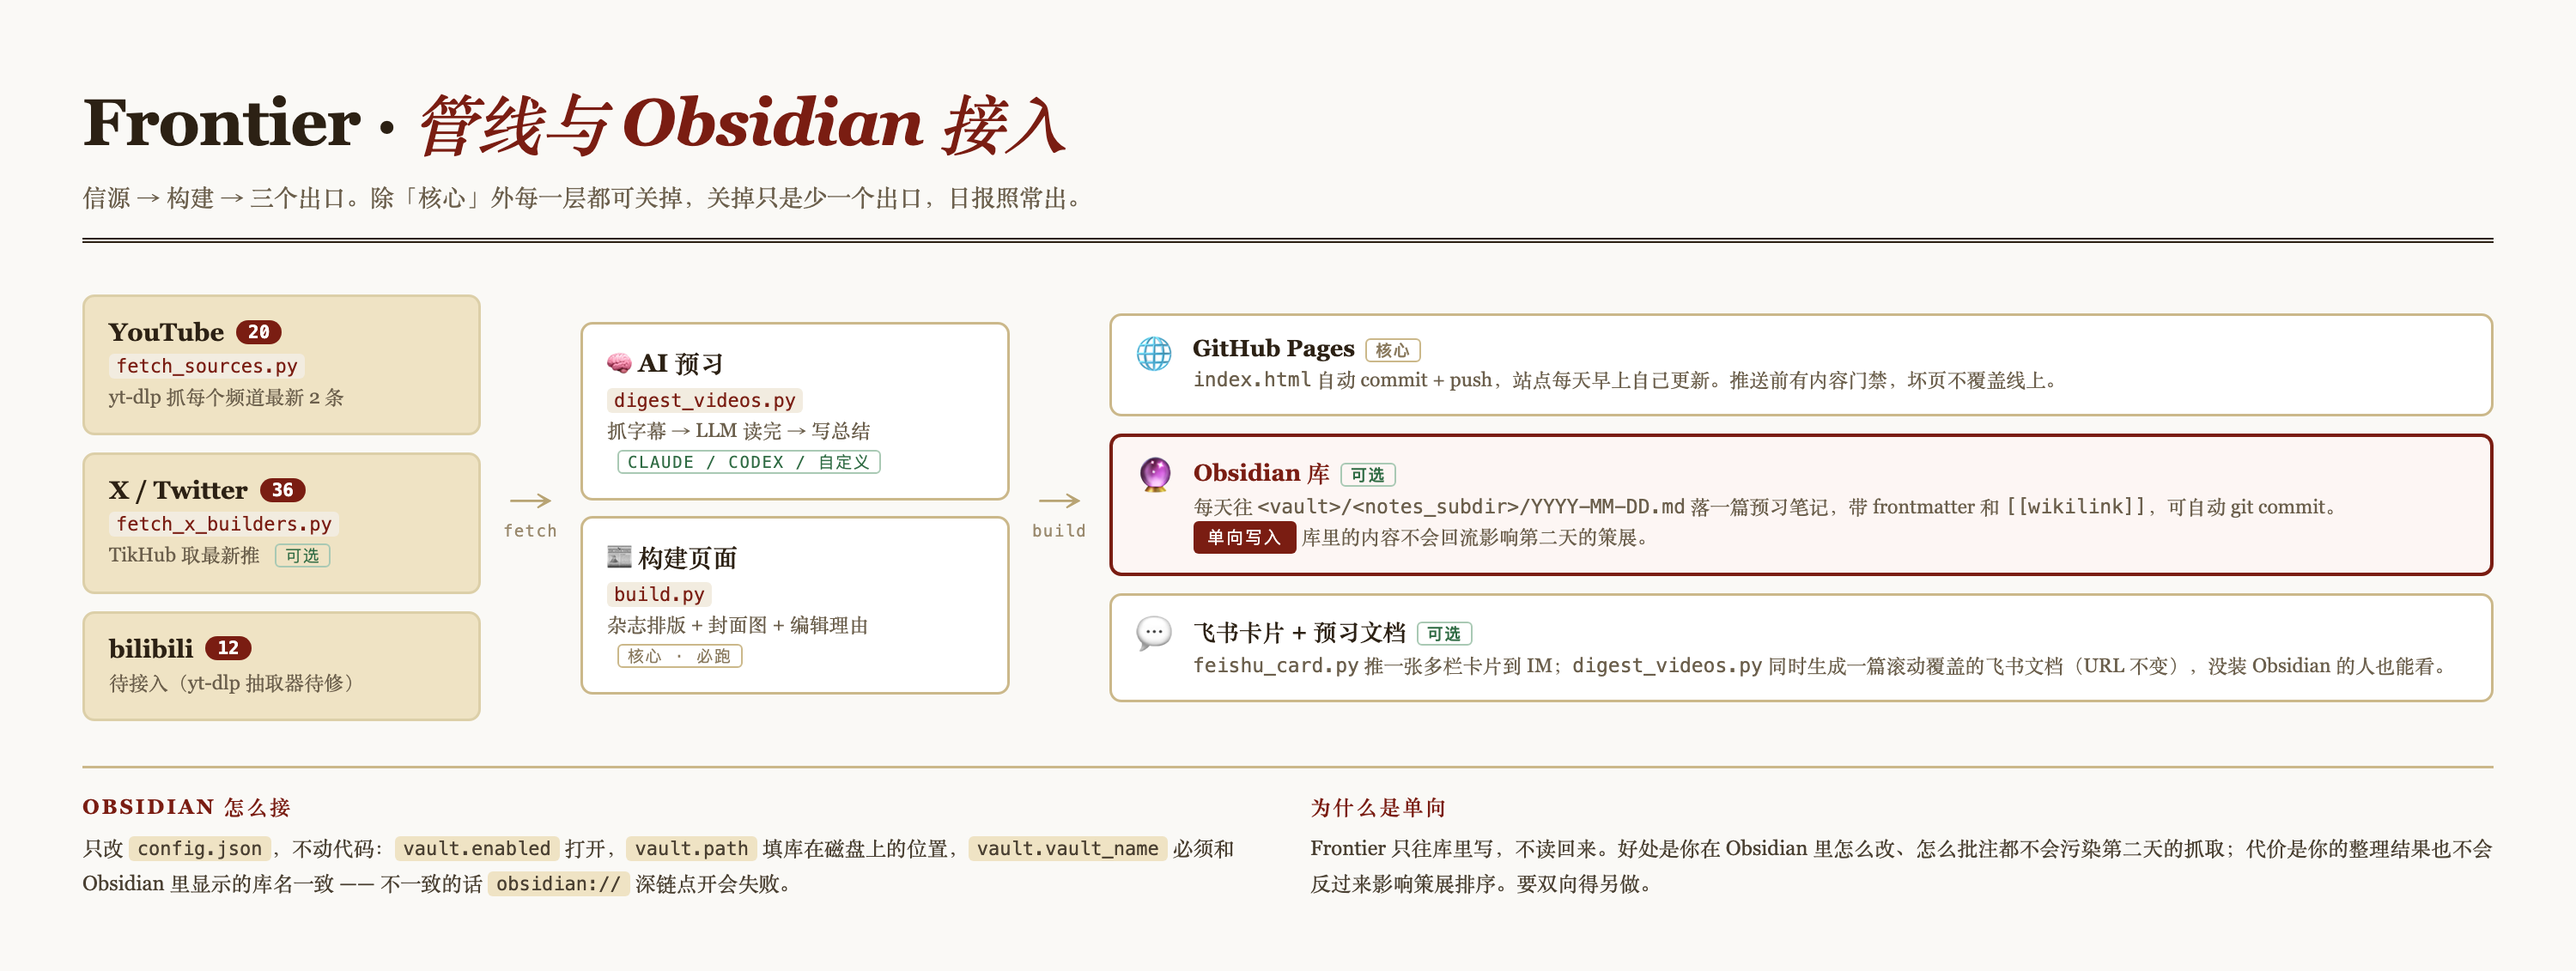
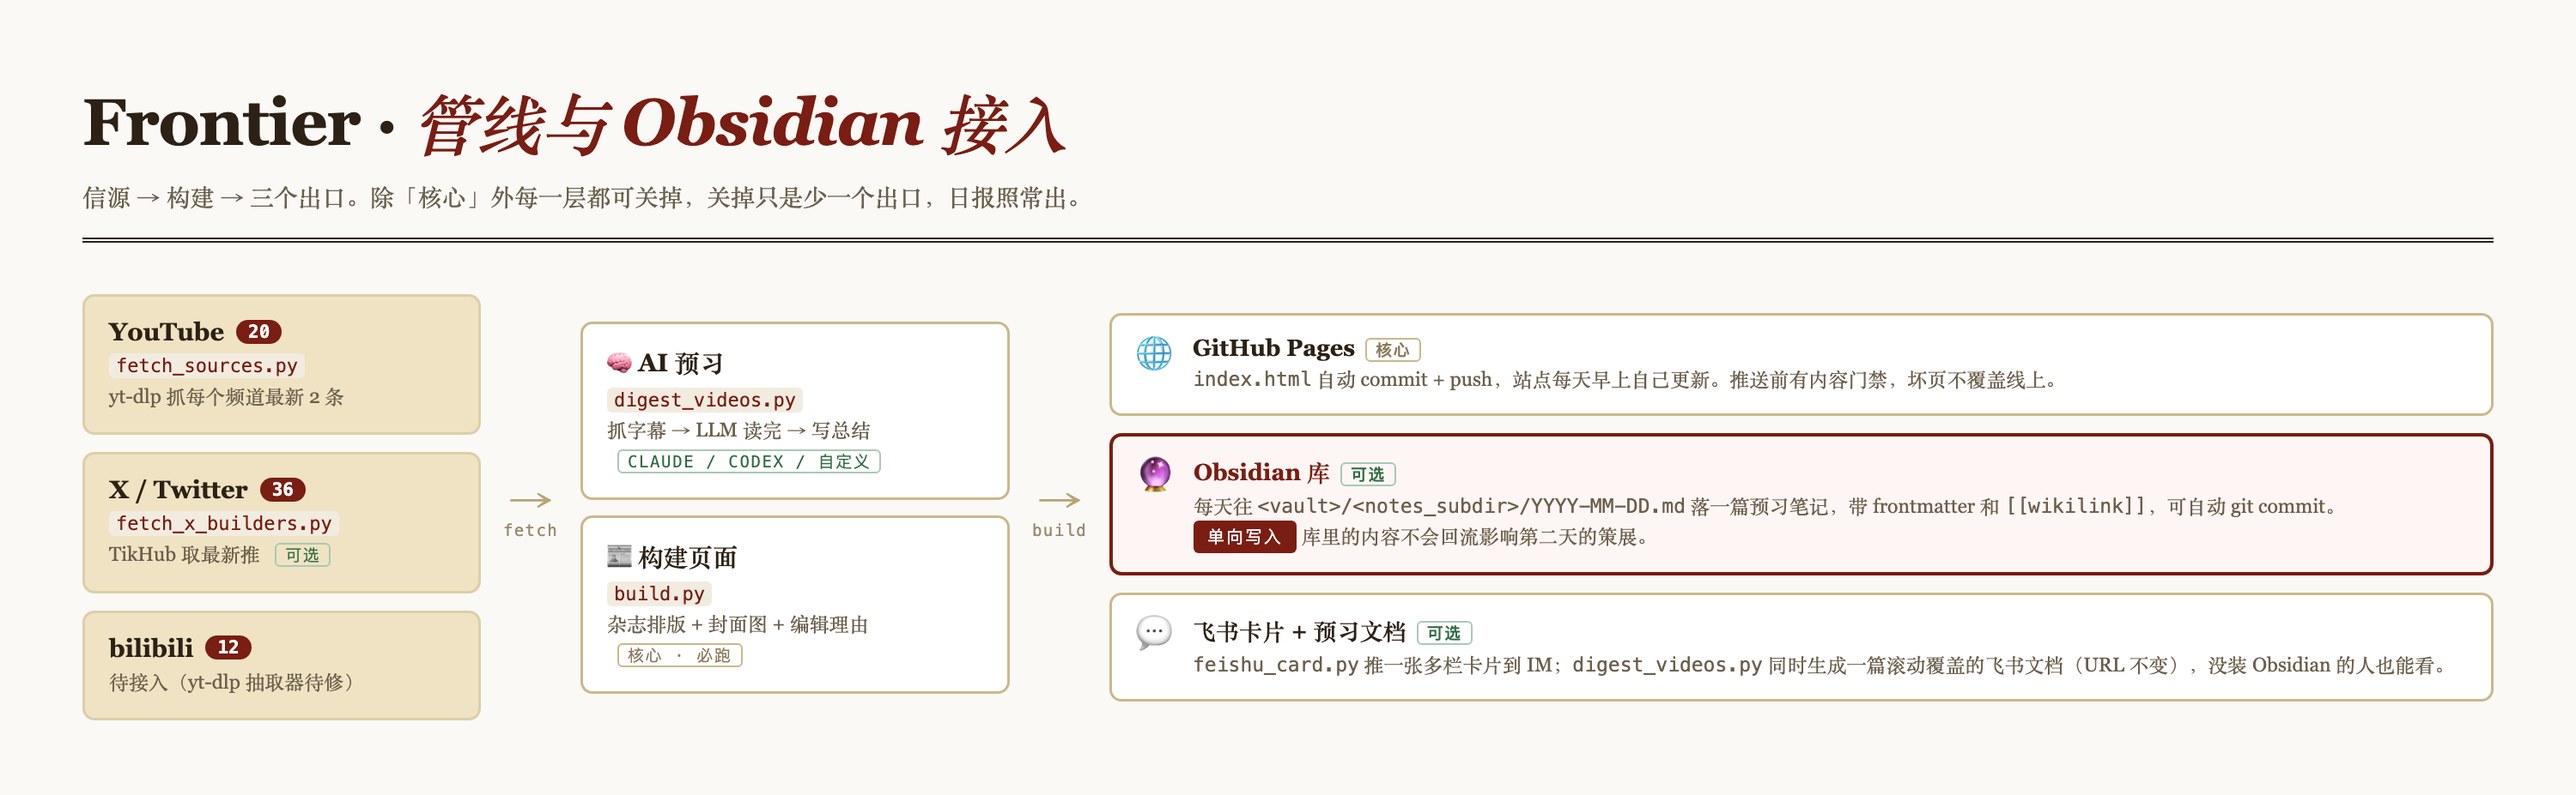
docs: 信源改成分类表格，管线图去掉冗余说明
- README（中英）里那行挤在一起的示例链接，换成按分类分组的表格：
  YouTube 20 个 + X 36 个全部列出、全部可点，折叠在 <details> 里不占版面
- X 表格用显示名而非 handle，可读性更好
- 管线图移除底部「Obsidian 怎么接 / 为什么是单向」两段说明——
  这类会变的文字不该烤进图片，SETUP.md 第 5 节已有且可维护

diff --git a/README.zh-CN.md b/README.zh-CN.md
@@ -32,13 +32,36 @@
 | **bilibili** | 12 | ⏳ 待接入（yt-dlp 抽取器待修） | [`SOURCES.md`](SOURCES.md) |
 | **小红书** | 16 | ⏸ 仅作关注 / 选题池 | [`SOURCES.md`](SOURCES.md) |
 
-20 个 YouTube 频道里的一部分：[Sequoia](https://www.youtube.com/@sequoiacapital/videos) ·
-[a16z](https://www.youtube.com/@a16z/videos) · [Y Combinator](https://www.youtube.com/@ycombinator/videos) ·
-[Anthropic](https://www.youtube.com/@anthropic-ai/videos) · [Karpathy](https://www.youtube.com/@AndrejKarpathy/videos) ·
-[Latent Space](https://www.youtube.com/@LatentSpacePod/videos) · [Lenny's](https://www.youtube.com/@LennysPodcast/videos) ·
-[No Priors](https://www.youtube.com/@NoPriorsPodcast/videos)；X 上比如
-[@karpathy](https://x.com/karpathy) · [@swyx](https://x.com/swyx) · [@simonw](https://x.com/simonw) ·
-[@levelsio](https://x.com/levelsio) · [@lennysan](https://x.com/lennysan)。
+<details open>
+<summary><b>YouTube —— 全部 20 个频道</b></summary>
+
+| 分类 | 数量 | 频道 |
+|---|---|---|
+| **投资机构 · VC** | 4 | [Sequoia Capital](https://www.youtube.com/@sequoiacapital/videos) · [a16z](https://www.youtube.com/@a16z/videos) · [Y Combinator](https://www.youtube.com/@ycombinator/videos) · [Redpoint AI](https://www.youtube.com/@redpointai/videos) |
+| **前沿 AI 公司 · 官方** | 5 | [OpenAI](https://www.youtube.com/@OpenAI/videos) · [Anthropic](https://www.youtube.com/@anthropic-ai/videos) · [Google DeepMind](https://www.youtube.com/@googledeepmind/videos) · [HeyGen](https://www.youtube.com/@HeyGen_Official/videos) · [Notion](https://www.youtube.com/@Notion/videos) |
+| **一线 researcher · 长访谈** | 2 | [Andrej Karpathy](https://www.youtube.com/@AndrejKarpathy/videos) · [Lex Fridman](https://www.youtube.com/@lexfridman/videos) |
+| **播客 · 工程/产品** | 4 | [Latent Space](https://www.youtube.com/@LatentSpacePod/videos) · [Lenny's Podcast](https://www.youtube.com/@LennysPodcast/videos) · [No Priors](https://www.youtube.com/@NoPriorsPodcast/videos) · [Uncapped with Jack Altman](https://www.youtube.com/@uncappedpod/videos) |
+| **influencer · 科普/评测(广度)** | 5 | [Two Minute Papers](https://www.youtube.com/@TwoMinutePapers/videos) · [AI Explained](https://www.youtube.com/@aiexplained-official/videos) · [Matthew Berman](https://www.youtube.com/@matthew_berman/videos) · [AI Jason](https://www.youtube.com/@AIJasonZ/videos) · [bycloud](https://www.youtube.com/@bycloudAI/videos) |
+
+</details>
+
+<details>
+<summary><b>X / Twitter —— 全部 36 个账号</b></summary>
+
+| 分类 | 数量 | 账号 |
+|---|---|---|
+| **研究 / Labs** | 11 | [Andrej Karpathy](https://x.com/karpathy) · [Sam Altman](https://x.com/sama) · [Greg Brockman](https://x.com/gdb) · [Yann LeCun](https://x.com/ylecun) · [Andrew Ng](https://x.com/AndrewYNg) · [Jim Fan](https://x.com/DrJimFan) · [Fei-Fei Li](https://x.com/drfeifei) · [Demis Hassabis](https://x.com/demishassabis) · [Noam Brown](https://x.com/polynoamial) · [Nathan Lambert](https://x.com/natolambert) · [Ethan Mollick](https://x.com/emollick) |
+| **模型公司 · 官方** | 2 | [DeepSeek](https://x.com/deepseek_ai) · [MiniMax](https://x.com/MiniMax__AI) |
+| **创始 / 产品 CEO** | 9 | [Aravind Srinivas](https://x.com/AravSrinivas) · [Amjad Masad](https://x.com/amasad) · [Alexandr Wang](https://x.com/alexandr_wang) · [Clement Delangue](https://x.com/ClementDelangue) · [Harrison Chase](https://x.com/hwchase17) · [Michael Truell](https://x.com/mntruell) · [Guillermo Rauch](https://x.com/rauchg) · [Bret Taylor](https://x.com/btaylor) · [Mira Murati](https://x.com/miramurati) |
+| **GTM / 增长 / 出海** | 4 | [Lenny Rachitsky](https://x.com/lennysan) · [Greg Isenberg](https://x.com/gregisenberg) · [Peter Yang](https://x.com/petergyang) · [Pieter Levels](https://x.com/levelsio) |
+| **demo / builder 高产** | 4 | [AK](https://x.com/_akhaliq) · [Mckay Wrigley](https://x.com/mckaywrigley) · [Bilawal Sidhu](https://x.com/bilawalsidhu) · [Riley Brown](https://x.com/rileybrown_ai) |
+| **工程 / 写作** | 2 | [swyx](https://x.com/swyx) · [Simon Willison](https://x.com/simonw) |
+| **投资 & 操盘** | 3 | [Garry Tan](https://x.com/garrytan) · [Sarah Guo](https://x.com/saranormous) · [Martin Casado](https://x.com/martin_casado) |
+| **业内 influencer · 对标** | 1 | [Zara Zhang 张咋啦](https://x.com/zarazhangrui) |
+
+</details>
+
+> bilibili（12）和小红书（16）在 [`SOURCES.md`](SOURCES.md) 里，这两个平台目前都还没自动抓取。
 
 ## 怎么跑起来的
 

diff --git a/README.md b/README.md
@@ -33,13 +33,36 @@ with links and a line on why it's there, in **[`SOURCES.md`](SOURCES.md)**.
 | **bilibili** | 12 | ⏳ pending (yt-dlp extractor) | [`SOURCES.md`](SOURCES.md) |
 | **Xiaohongshu** | 16 | ⏸ watch list only | [`SOURCES.md`](SOURCES.md) |
 
-A few of the 20 YouTube channels: [Sequoia](https://www.youtube.com/@sequoiacapital/videos) ·
-[a16z](https://www.youtube.com/@a16z/videos) · [Y Combinator](https://www.youtube.com/@ycombinator/videos) ·
-[Anthropic](https://www.youtube.com/@anthropic-ai/videos) · [Karpathy](https://www.youtube.com/@AndrejKarpathy/videos) ·
-[Latent Space](https://www.youtube.com/@LatentSpacePod/videos) · [Lenny's](https://www.youtube.com/@LennysPodcast/videos) ·
-[No Priors](https://www.youtube.com/@NoPriorsPodcast/videos) — and on X:
-[@karpathy](https://x.com/karpathy) · [@swyx](https://x.com/swyx) · [@simonw](https://x.com/simonw) ·
-[@levelsio](https://x.com/levelsio) · [@lennysan](https://x.com/lennysan).
+<details open>
+<summary><b>YouTube — all 20 channels</b></summary>
+
+| Category | n | Channels |
+|---|---|---|
+| **VC firms** | 4 | [Sequoia Capital](https://www.youtube.com/@sequoiacapital/videos) · [a16z](https://www.youtube.com/@a16z/videos) · [Y Combinator](https://www.youtube.com/@ycombinator/videos) · [Redpoint AI](https://www.youtube.com/@redpointai/videos) |
+| **AI labs · official** | 5 | [OpenAI](https://www.youtube.com/@OpenAI/videos) · [Anthropic](https://www.youtube.com/@anthropic-ai/videos) · [Google DeepMind](https://www.youtube.com/@googledeepmind/videos) · [HeyGen](https://www.youtube.com/@HeyGen_Official/videos) · [Notion](https://www.youtube.com/@Notion/videos) |
+| **Researchers · long-form** | 2 | [Andrej Karpathy](https://www.youtube.com/@AndrejKarpathy/videos) · [Lex Fridman](https://www.youtube.com/@lexfridman/videos) |
+| **Podcasts · eng & product** | 4 | [Latent Space](https://www.youtube.com/@LatentSpacePod/videos) · [Lenny's Podcast](https://www.youtube.com/@LennysPodcast/videos) · [No Priors](https://www.youtube.com/@NoPriorsPodcast/videos) · [Uncapped with Jack Altman](https://www.youtube.com/@uncappedpod/videos) |
+| **Explainers · breadth** | 5 | [Two Minute Papers](https://www.youtube.com/@TwoMinutePapers/videos) · [AI Explained](https://www.youtube.com/@aiexplained-official/videos) · [Matthew Berman](https://www.youtube.com/@matthew_berman/videos) · [AI Jason](https://www.youtube.com/@AIJasonZ/videos) · [bycloud](https://www.youtube.com/@bycloudAI/videos) |
+
+</details>
+
+<details>
+<summary><b>X / Twitter — all 36 builders</b></summary>
+
+| Category | n | Accounts |
+|---|---|---|
+| **Research / Labs** | 11 | [Andrej Karpathy](https://x.com/karpathy) · [Sam Altman](https://x.com/sama) · [Greg Brockman](https://x.com/gdb) · [Yann LeCun](https://x.com/ylecun) · [Andrew Ng](https://x.com/AndrewYNg) · [Jim Fan](https://x.com/DrJimFan) · [Fei-Fei Li](https://x.com/drfeifei) · [Demis Hassabis](https://x.com/demishassabis) · [Noam Brown](https://x.com/polynoamial) · [Nathan Lambert](https://x.com/natolambert) · [Ethan Mollick](https://x.com/emollick) |
+| **Model companies** | 2 | [DeepSeek](https://x.com/deepseek_ai) · [MiniMax](https://x.com/MiniMax__AI) |
+| **Founders / product CEOs** | 9 | [Aravind Srinivas](https://x.com/AravSrinivas) · [Amjad Masad](https://x.com/amasad) · [Alexandr Wang](https://x.com/alexandr_wang) · [Clement Delangue](https://x.com/ClementDelangue) · [Harrison Chase](https://x.com/hwchase17) · [Michael Truell](https://x.com/mntruell) · [Guillermo Rauch](https://x.com/rauchg) · [Bret Taylor](https://x.com/btaylor) · [Mira Murati](https://x.com/miramurati) |
+| **GTM / growth** | 4 | [Lenny Rachitsky](https://x.com/lennysan) · [Greg Isenberg](https://x.com/gregisenberg) · [Peter Yang](https://x.com/petergyang) · [Pieter Levels](https://x.com/levelsio) |
+| **Prolific builders** | 4 | [AK](https://x.com/_akhaliq) · [Mckay Wrigley](https://x.com/mckaywrigley) · [Bilawal Sidhu](https://x.com/bilawalsidhu) · [Riley Brown](https://x.com/rileybrown_ai) |
+| **Engineering / writing** | 2 | [swyx](https://x.com/swyx) · [Simon Willison](https://x.com/simonw) |
+| **Investors & operators** | 3 | [Garry Tan](https://x.com/garrytan) · [Sarah Guo](https://x.com/saranormous) · [Martin Casado](https://x.com/martin_casado) |
+| **Benchmark influencer** | 1 | [Zara Zhang 张咋啦](https://x.com/zarazhangrui) |
+
+</details>
+
+> bilibili (12) and Xiaohongshu (16) are listed in [`SOURCES.md`](SOURCES.md) — neither is auto-fetched yet.
 
 ## How it works
 
